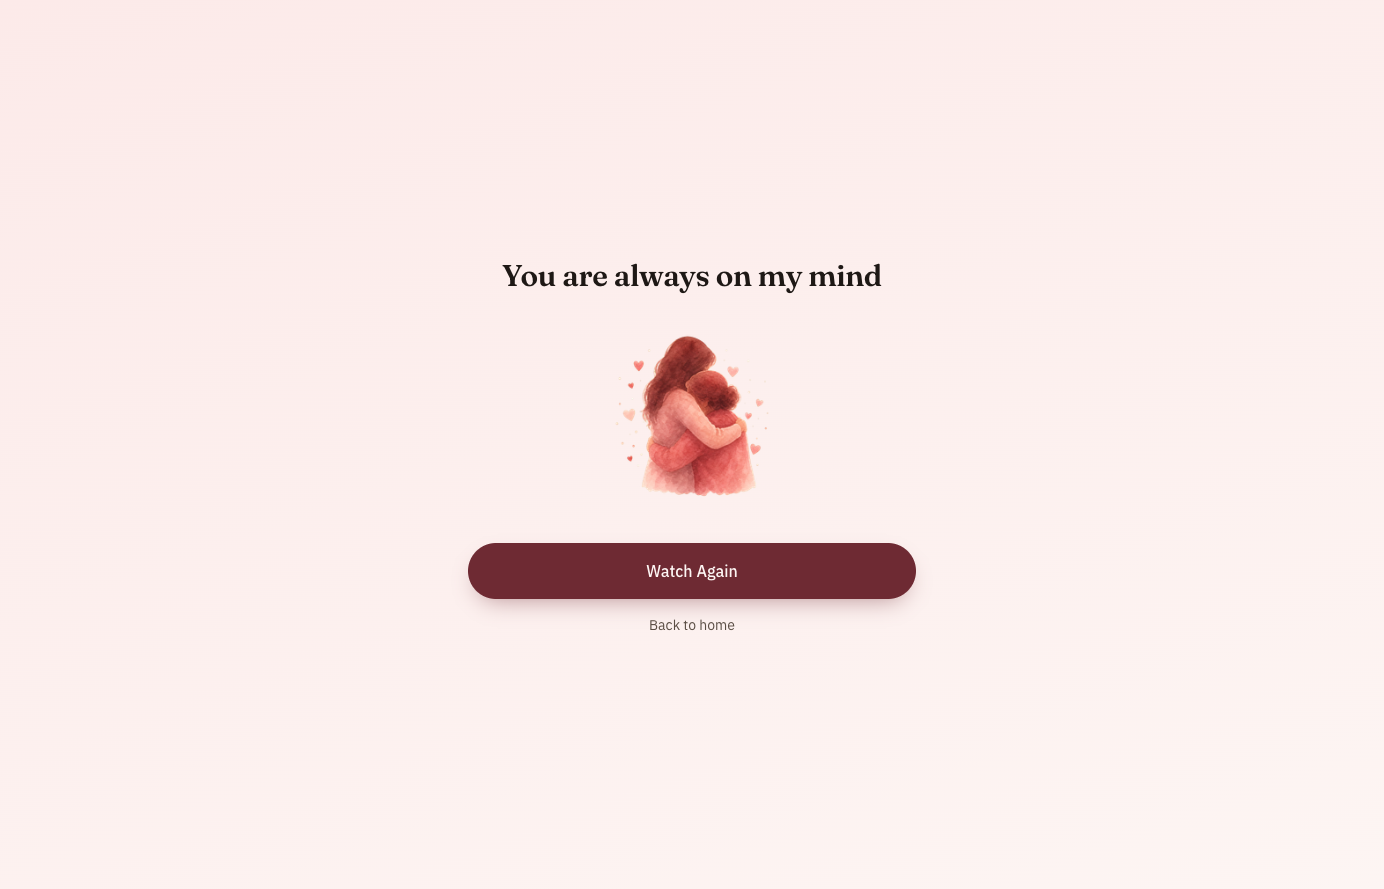
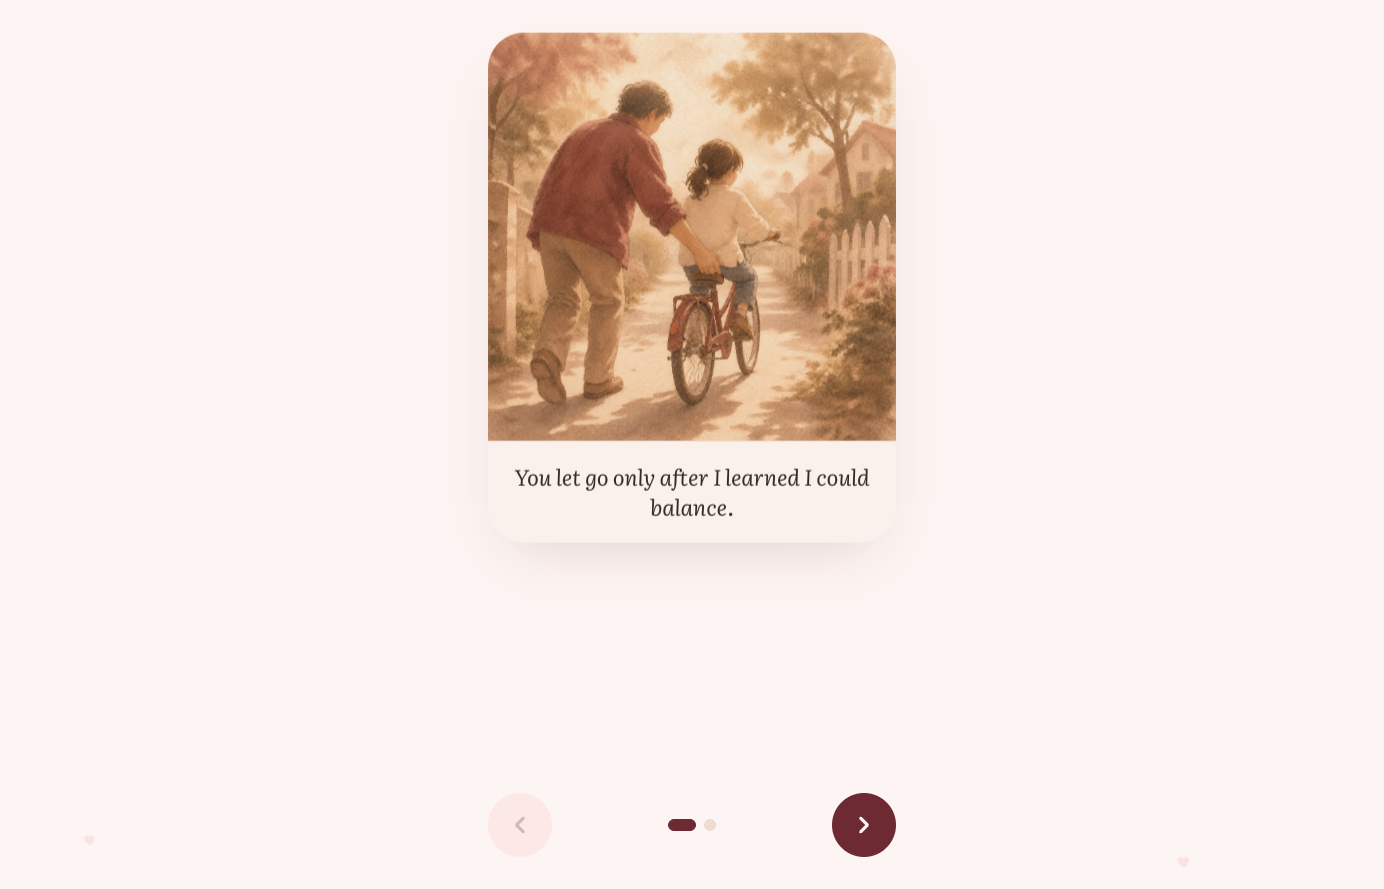
Add generated sample memory images

diff --git a/src/lib/kisses.ts b/src/lib/kisses.ts
@@ -31,32 +31,48 @@ export const DEMO_MEMORIES: Memory[] = [
   {
     id: "letter-one",
     kissId: DEMO_KISS_ID,
-    photoUrl: "/illustrations/surprise-envelope.png",
-    caption: "A small note saved for exactly the right moment.",
+    photoUrl: "/samples/photo-album.webp",
+    caption: "Some memories feel warmer every time we open them.",
     createdAt: DEMO_KISS.createdAt,
     isDemo: true,
   },
   {
     id: "warm-hug",
     kissId: DEMO_KISS_ID,
-    photoUrl: "/illustrations/warm-hug.png",
-    caption: "A quiet hug from someone who is thinking of you.",
+    photoUrl: "/samples/kitchen-memory.webp",
+    caption: "The smallest routines become the things we miss most.",
     createdAt: DEMO_KISS.createdAt,
     isDemo: true,
   },
   {
     id: "shared-memory",
     kissId: DEMO_KISS_ID,
-    photoUrl: "/illustrations/share-envelope.png",
-    caption: "One memory, wrapped up and waiting to be opened.",
+    photoUrl: "/samples/train-station-hug.webp",
+    caption: "Every goodbye carried a promise to come back.",
     createdAt: DEMO_KISS.createdAt,
     isDemo: true,
   },
   {
     id: "new-upload",
     kissId: DEMO_KISS_ID,
-    photoUrl: "/illustrations/upload-prompt.png",
-    caption: "Add your own photo and make this demo personal.",
+    photoUrl: "/samples/video-call.webp",
+    caption: "Even far away, the ordinary calls kept us close.",
+    createdAt: DEMO_KISS.createdAt,
+    isDemo: true,
+  },
+  {
+    id: "childhood-bicycle",
+    kissId: DEMO_KISS_ID,
+    photoUrl: "/samples/childhood-bicycle.webp",
+    caption: "You let go only after I learned I could balance.",
+    createdAt: DEMO_KISS.createdAt,
+    isDemo: true,
+  },
+  {
+    id: "celebration-table",
+    kissId: DEMO_KISS_ID,
+    photoUrl: "/samples/celebration-table.webp",
+    caption: "Every celebration felt complete because you were there.",
     createdAt: DEMO_KISS.createdAt,
     isDemo: true,
   },

diff --git a/docs/sample-image-prompts.md b/docs/sample-image-prompts.md
@@ -82,9 +82,9 @@ Avoid: text, watermark, logos, readable cake writing, photorealistic hands, hars
 
 ## Suggested Filenames
 
-- `sample-photo-album.png`
-- `sample-kitchen-memory.png`
-- `sample-train-station-hug.png`
-- `sample-video-call.png`
-- `sample-childhood-bicycle.png`
-- `sample-celebration-table.png`
+- `photo-album.webp`
+- `kitchen-memory.webp`
+- `train-station-hug.webp`
+- `video-call.webp`
+- `childhood-bicycle.webp`
+- `celebration-table.webp`

diff --git a/README.md b/README.md
@@ -89,7 +89,9 @@ See `docs/architecture.md` for the data model, authentication model, and privacy
 
 ## Sample Images
 
-Want demo memory images that match the app style? Use the prompts in `docs/sample-image-prompts.md`.
+The demo reveal uses generated sample images from `public/samples/`.
+
+Want to generate your own images in the same style? Use the prompts in `docs/sample-image-prompts.md`.
 
 ## Privacy Notes
 